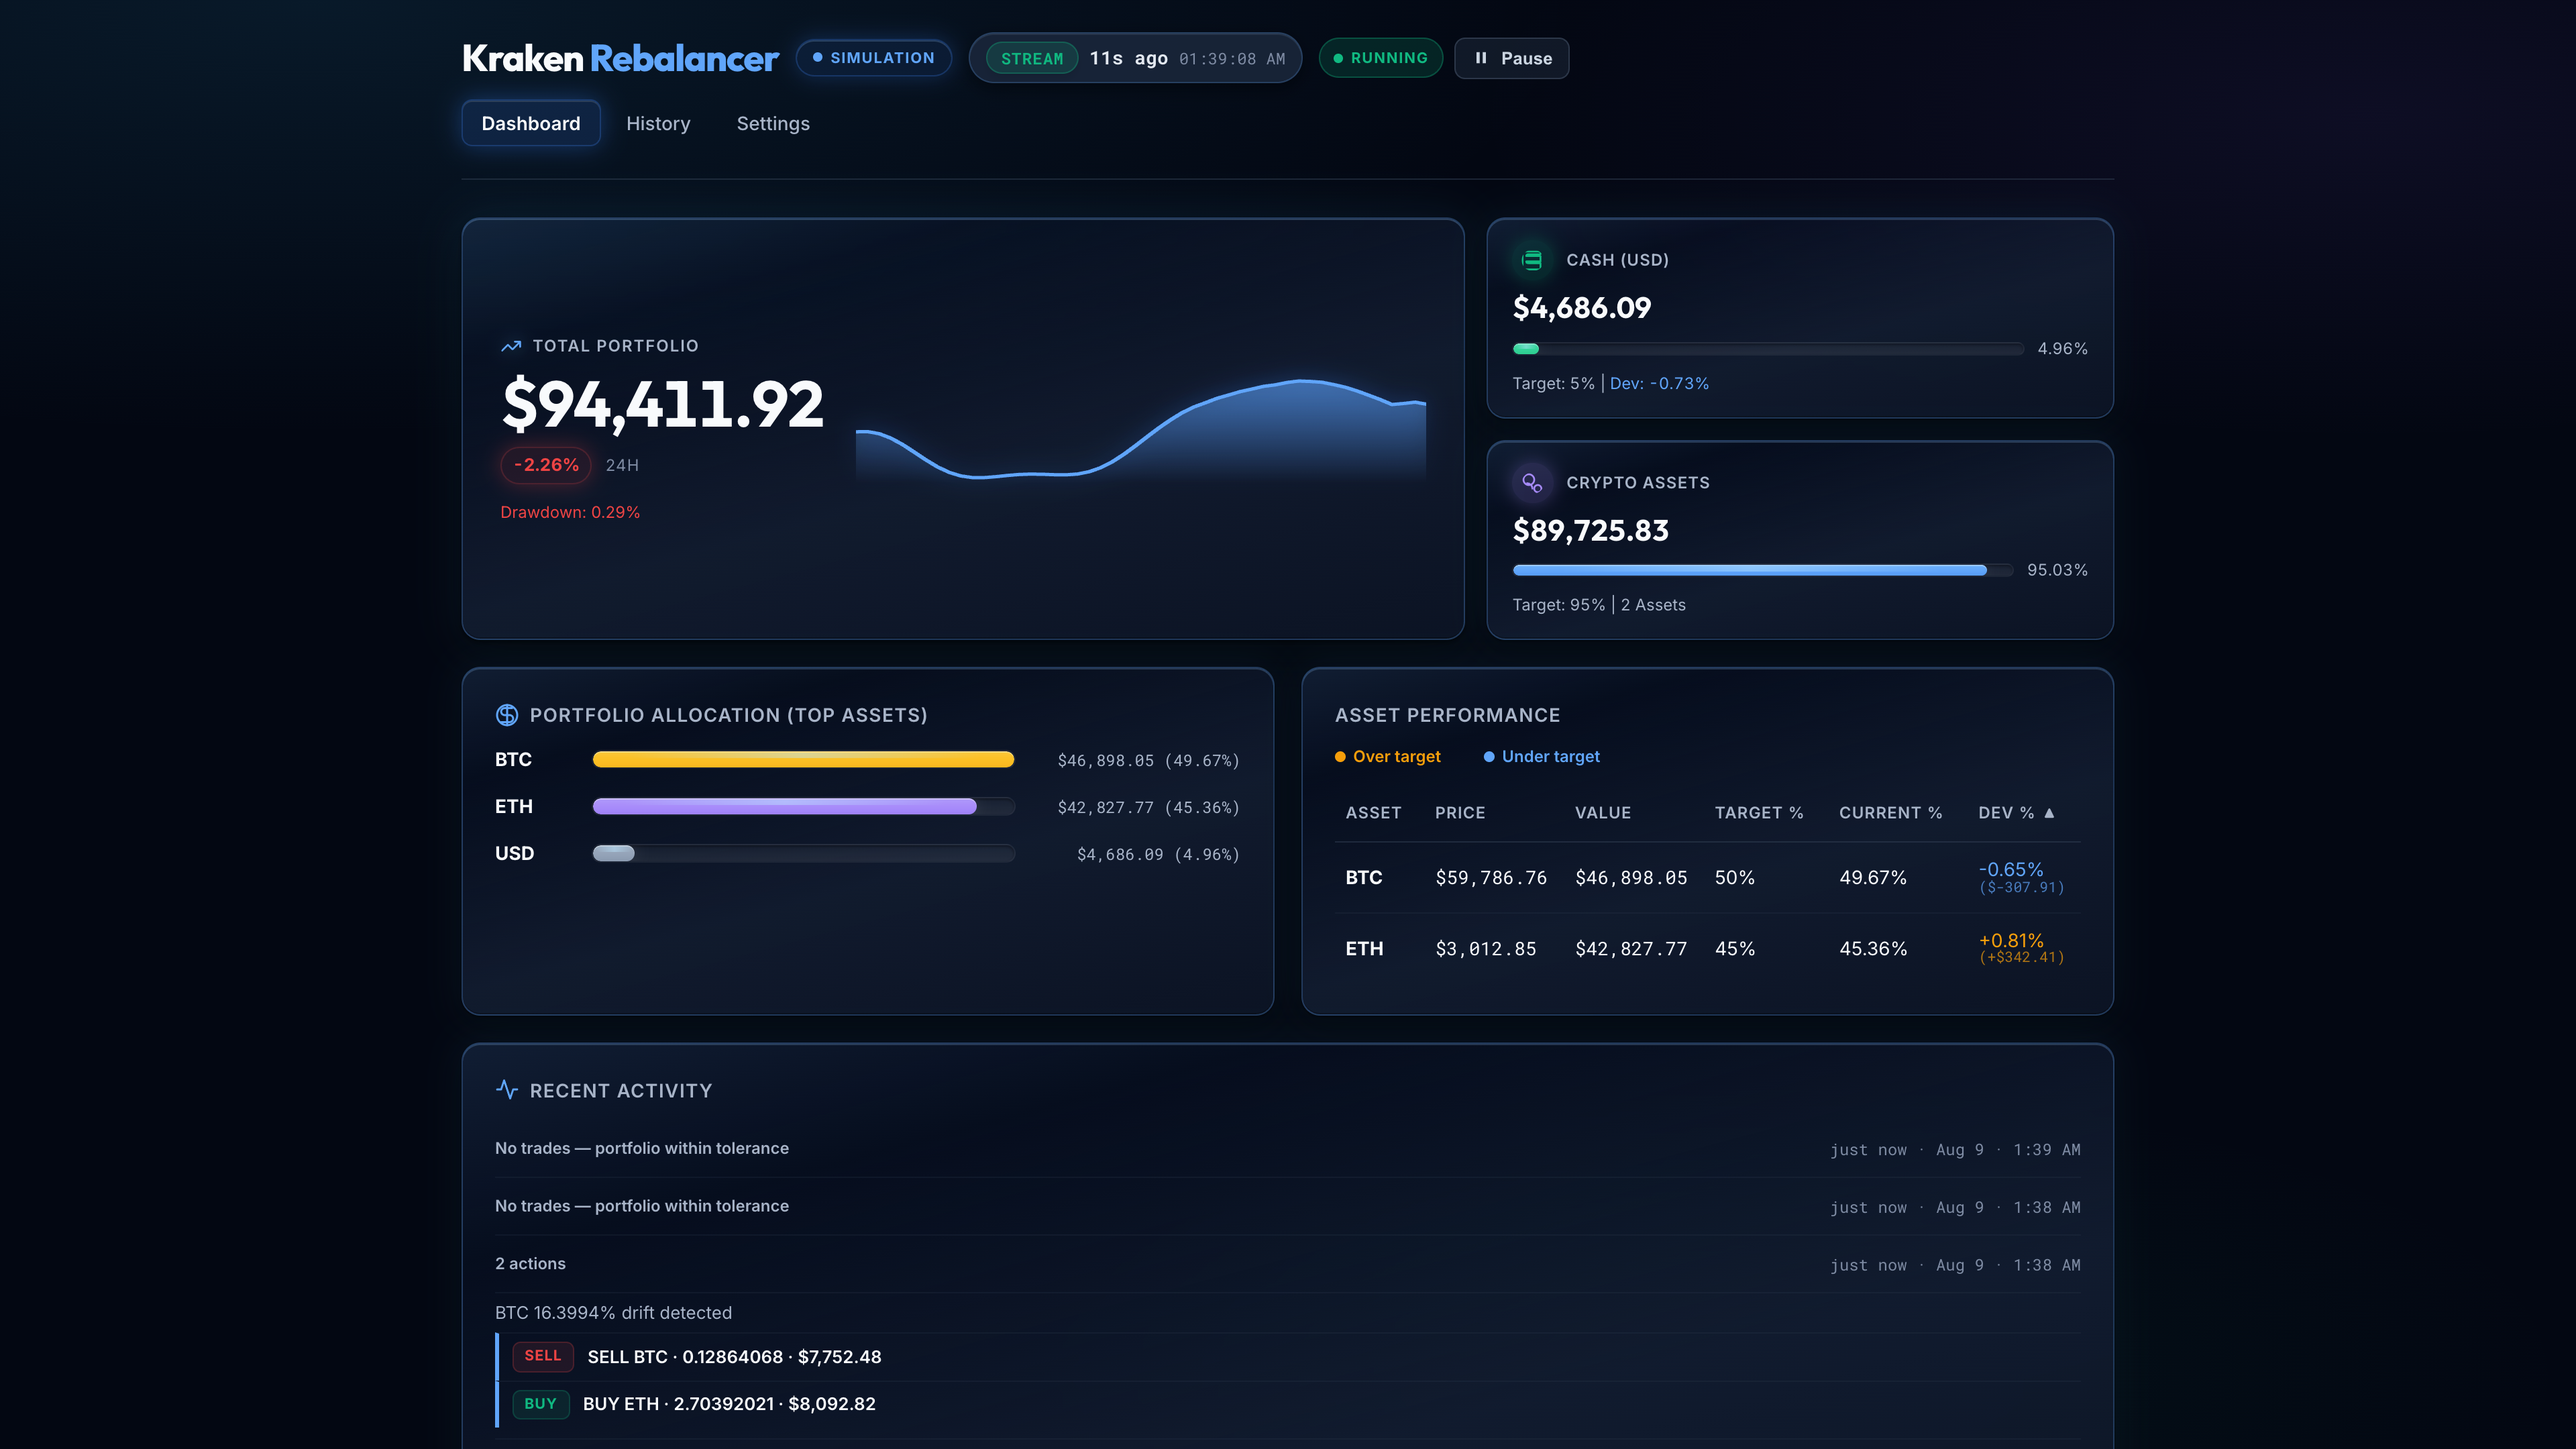
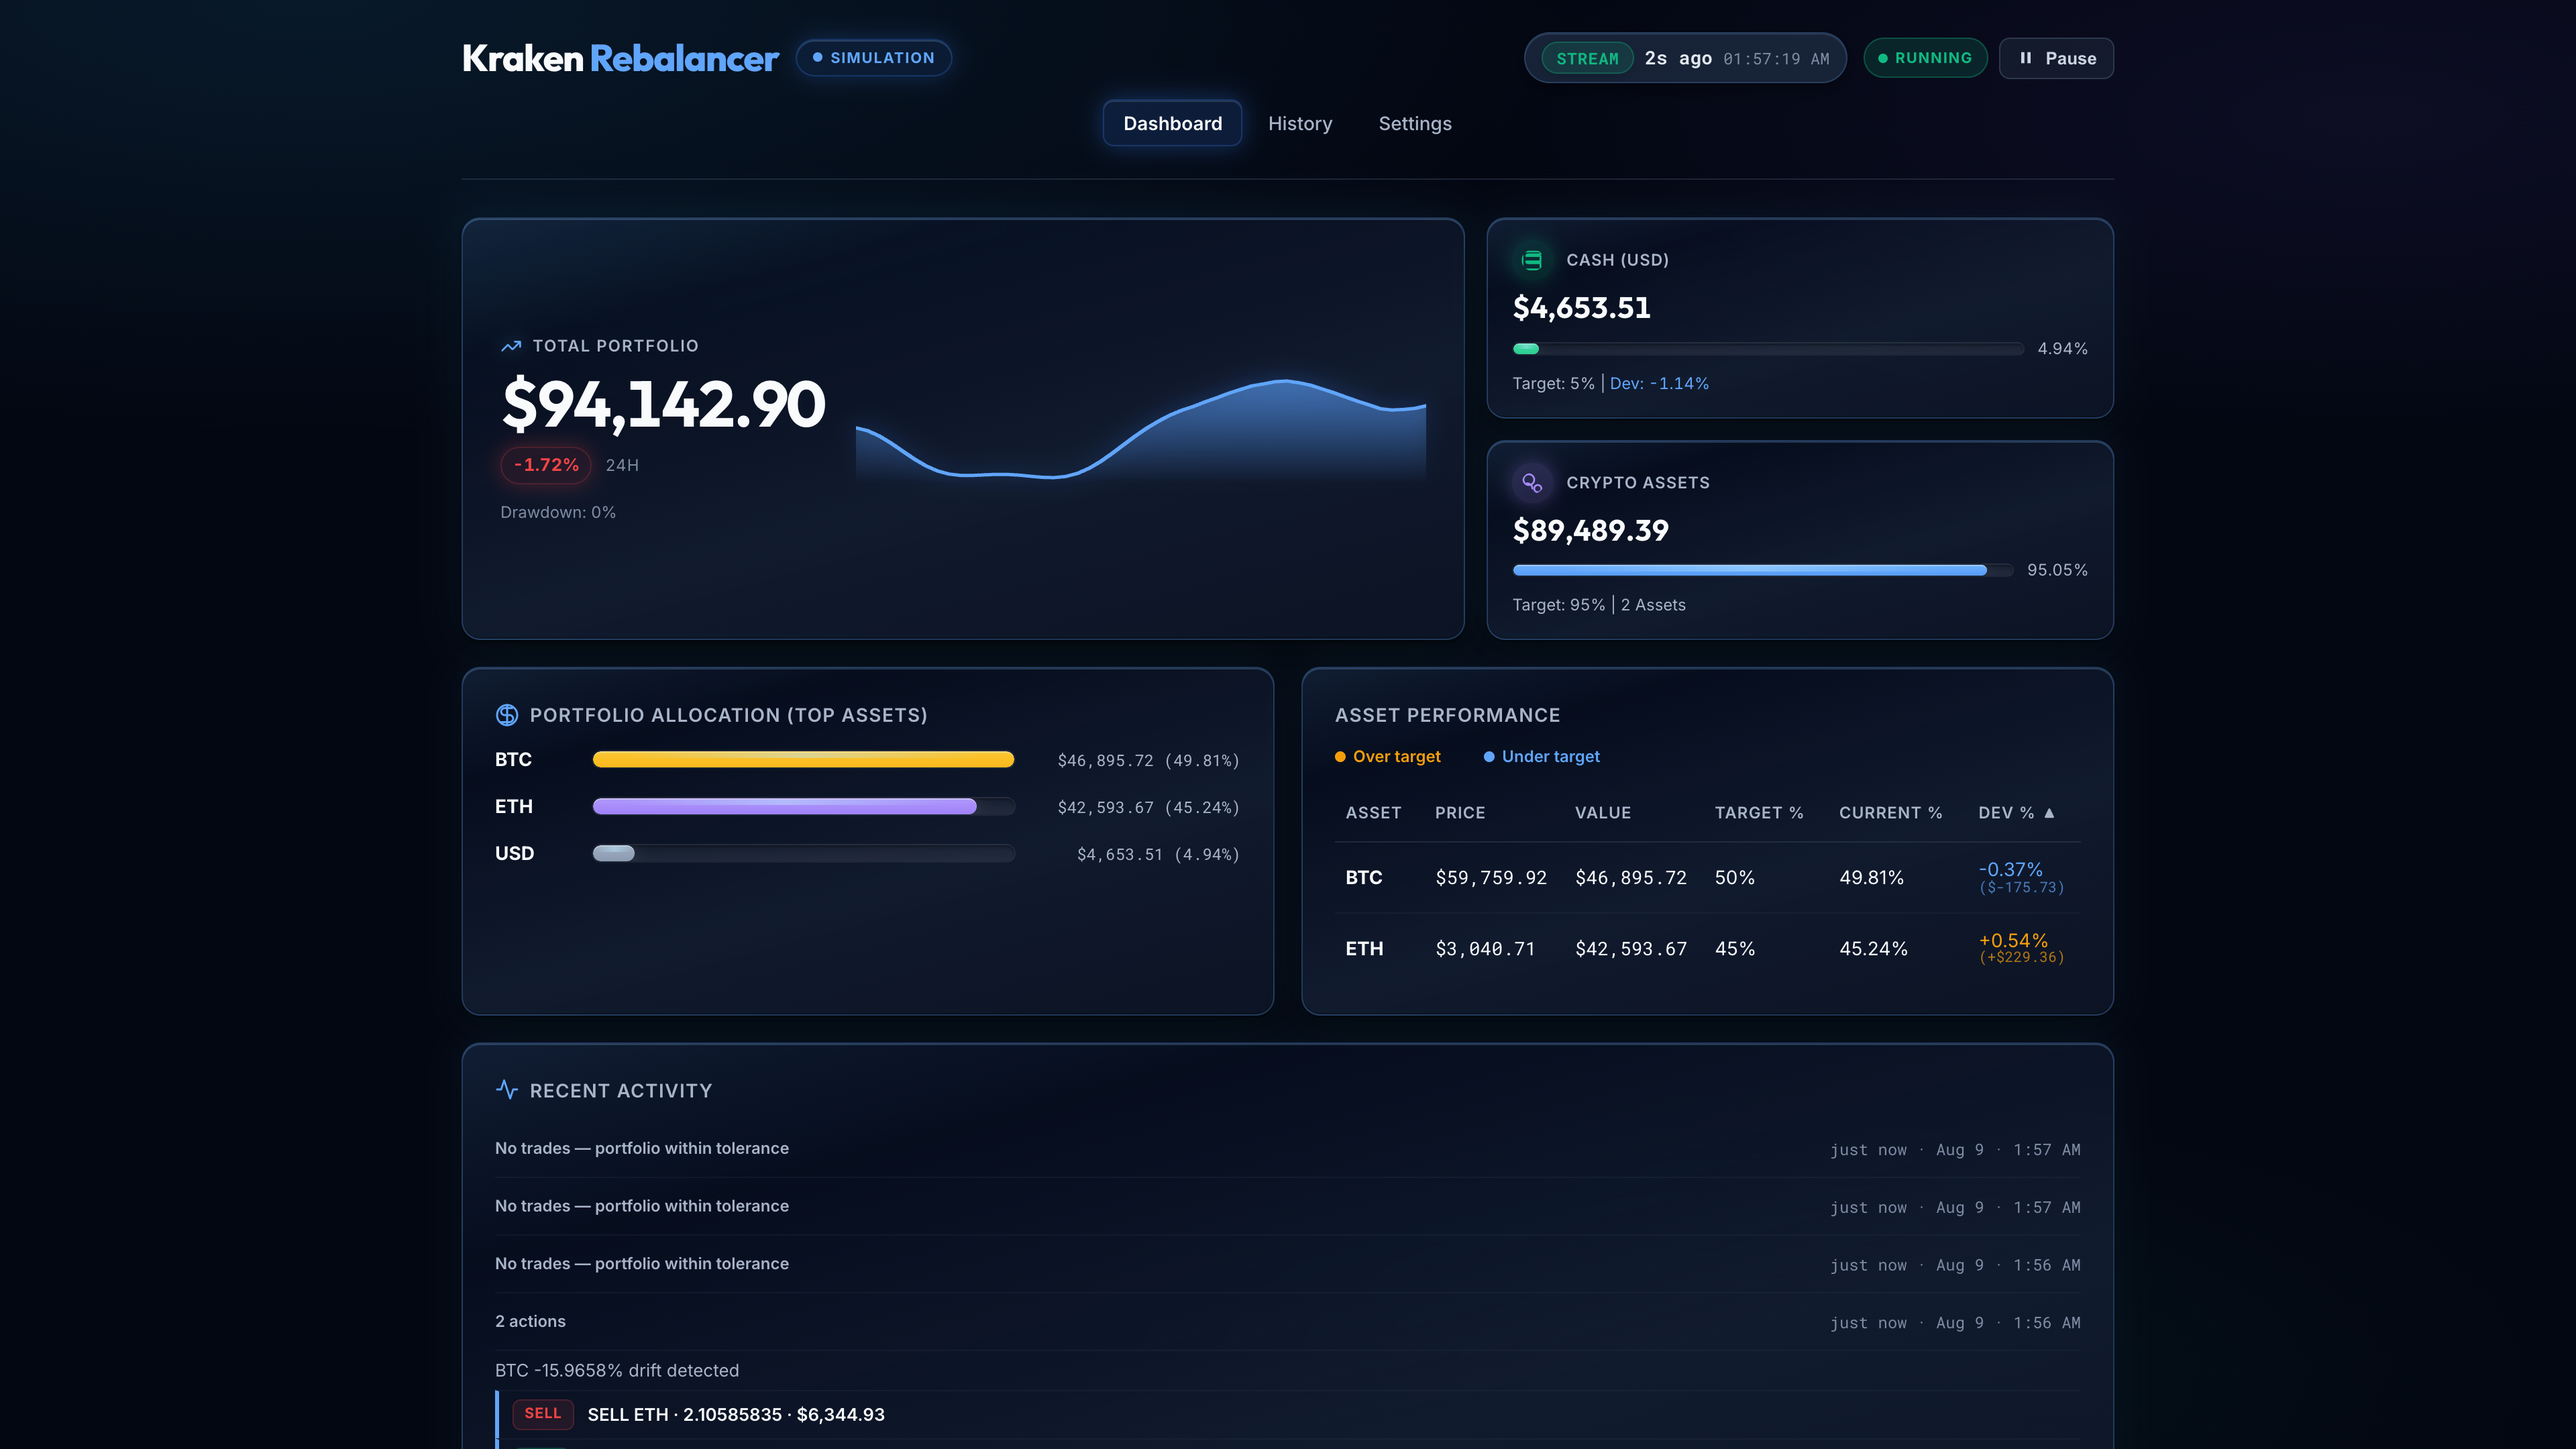
center navigation and align header controls

diff --git a/src/main/kotlin/com/gemini/krakenbot/view/css/MediaQueries.kt b/src/main/kotlin/com/gemini/krakenbot/view/css/MediaQueries.kt
@@ -142,13 +142,14 @@ object MediaQueries {
             }
         }
 
-        "@media (min-width: 768px) and (max-width: 1160px)" {
-            ".${CssClass.Layout.HeaderActions}" {
-                width = 100.pct
-                justifyContentRaw("center")
+        "@media (min-width: 1024px)" {
+            // DASH-2: wide headers separate page identity from the right-side
+            // operational status and control cluster.
+            ".${CssClass.Layout.HeaderWithStream} > .${CssClass.Layout.HeaderStatus}" {
+                marginLeftRaw("auto")
             }
-            ".${CssClass.Layout.HeaderActions} > #${HtmlIds.SAVE_BUTTON}" {
-                marginLeftRaw("0")
+            ".${CssClass.Layout.HeaderWithoutStream} > .${CssClass.Layout.LoopControl}" {
+                marginLeftRaw("auto")
             }
         }
 
@@ -220,6 +221,7 @@ object MediaQueries {
                 put("justify-self", "center")
             }
             ".${CssClass.Layout.HeaderActions}" {
+                display = Display.flex
                 width = 100.pct
                 justifyContentRaw("center")
                 gap = 0.5.rem

diff --git a/src/main/kotlin/com/gemini/krakenbot/view/css/LayoutStyles.kt b/src/main/kotlin/com/gemini/krakenbot/view/css/LayoutStyles.kt
@@ -143,17 +143,23 @@ object LayoutStyles {
         }
 
         ".${CssClass.Layout.HeaderActions}" {
-            display = Display.flex
+            display = Display.grid
+            gridTemplateColumns = GridTemplateColumns("1fr auto 1fr")
             alignItems = Align.center
             gap = 1.rem
-            flexWrap = FlexWrap.nowrap
-            justifyContentRaw("flex-start")
             width = 100.pct
             marginBottom = 0.rem
         }
 
+        ".${CssClass.Layout.HeaderActions} > .${CssClass.Navigation.Bar.value}" {
+            put("grid-column", "2")
+            put("justify-self", "center")
+        }
+
         ".${CssClass.Layout.HeaderActions} > #${HtmlIds.SAVE_BUTTON}" {
-            marginLeftRaw("auto")
+            marginLeftRaw("0")
+            put("grid-column", "3")
+            put("justify-self", "end")
         }
 
         ".${CssClass.Layout.LoopControl}" {

diff --git a/CHANGELOG.md b/CHANGELOG.md
@@ -16,6 +16,7 @@ to [Semantic Versioning](https://semver.org/spec/v2.0.0.html).
 
 ### Changed
 
+- **Header hierarchy**: Centered the Dashboard / History / Settings selector group and right-aligned the Stream, loop state, and Pause/Resume controls as a single operational cluster on wider screens, while preserving deliberate tablet and phone stacking.
 - **Responsive UI and documentation presentation**: Refined shared headers across phone, tablet, and desktop layouts; replaced icon-only loop controls with labeled Pause/Resume actions; improved human-readable History and Recent Activity formatting; simplified mobile trade cards, chart controls, and Settings removal actions; and constrained high-DPI documentation screenshots with a curated README gallery.
 - **Comprehensive Quality Overhaul skill**: Step 0 now cleans up leftover `.worktrees/` and `.coordination/` state from any previous run before starting, and a new Step 6 tears down the run's worktrees at the end, so repeated skill launches do not accumulate stale worktrees, coordination files, or leftover branches.
 - **Comprehensive Quality Overhaul skill**: Pre-first-use review tightened the contract — workers implement their own findings (S/M/L) inside their assigned `.worktrees/wt-<track>/` and write coordination artifacts under the parent-absolute `.worktrees/.coordination/` (with explicit read/write grant in worker prompts), leaving Gradle, servers, commits, GitHub issues, and PRs to the parent, a `requests/`/`results/` channel lets workers ask the parent to run app-boot tasks (screenshots, UI QA) serially, Track E (architecture/product reviews) runs in parallel with L-only parent-serial implementation, and fan-out uses `route-subagents` with a free-only `--config` override plus a single paid carve-out for adversarial review of high-risk PRs. Step 4 now uses per-PR branches (`improve/overhaul-YYYYMMDD-\<slug\>`), cleanup/teardown are nullglob-guarded and scoped, and `.worktrees/` is gitignored so `git add -A` never stages worktree gitlinks.

diff --git a/docs/USER_GUIDE.md b/docs/USER_GUIDE.md
@@ -56,9 +56,11 @@ safety on unless you intend to trade live.
 ## Navigation
 
 Dashboard, History, and Settings share the same top nav tabs (active page is
-highlighted). The header brand reads **Kraken** + **Rebalancer**, and right next
-to it a **persistent mode plate** shows the current trading mode on **every**
-page: **SIMULATION** (blue), **DRY RUN** (amber), or **LIVE TRADING** (red).
+highlighted and centered below the header identity on wider screens). The header
+brand reads **Kraken** + **Rebalancer**, and the Stream/loop status cluster sits
+to its right on wider screens. A **persistent mode plate** shows the current
+trading mode on **every** page: **SIMULATION** (blue), **DRY RUN** (amber), or
+**LIVE TRADING** (red).
 Precedence is simulation first (even if dry run is also on), then dry run, then
 live. The plate reflects your Settings, and hovering it reveals a tooltip
 explaining the consequence (e.g. "Live trading — real orders execute with real

diff --git a/.agents/skills/ui-visual-guidance-and-aesthetics/SKILL.md b/.agents/skills/ui-visual-guidance-and-aesthetics/SKILL.md
@@ -952,6 +952,10 @@ not substitute generic framework defaults for these decisions.
 - At tablet widths, keep identity and stream health on the first row and place
   the loop action in an intentional trailing row; on pages without stream
   health, keep identity and loop action on one row.
+- At laptop and desktop widths, keep identity on the left and right-align the
+  Stream, loop state, and loop action as one operational cluster. Center the
+  Dashboard / History / Settings selector group in the row below; on Settings,
+  keep Save Configuration independently right-aligned.
 - Pause and Resume are neutral operator actions. Use visible labels alongside
   icons and reserve semantic danger styling for actual destructive risk.
 

diff --git a/.agents/skills/ui-visual-implement/SKILL.md b/.agents/skills/ui-visual-implement/SKILL.md
@@ -38,9 +38,10 @@ Related:
 - Use the current repository contract in
   [ui-visual-guidance-and-aesthetics](../ui-visual-guidance-and-aesthetics/SKILL.md),
   including explicit phone/tablet header composition, labeled neutral loop
-  actions, human data precision, lightweight activity rows, mobile trade cards,
-  and the screenshot documentation policy. Do not rely on an older cached copy
-  of that skill.
+  actions, right-aligned wide-screen operational controls, centered page
+  navigation, human data precision, lightweight activity rows, mobile trade
+  cards, and the screenshot documentation policy. Do not rely on an older
+  cached copy of that skill.
 
 ---
 
